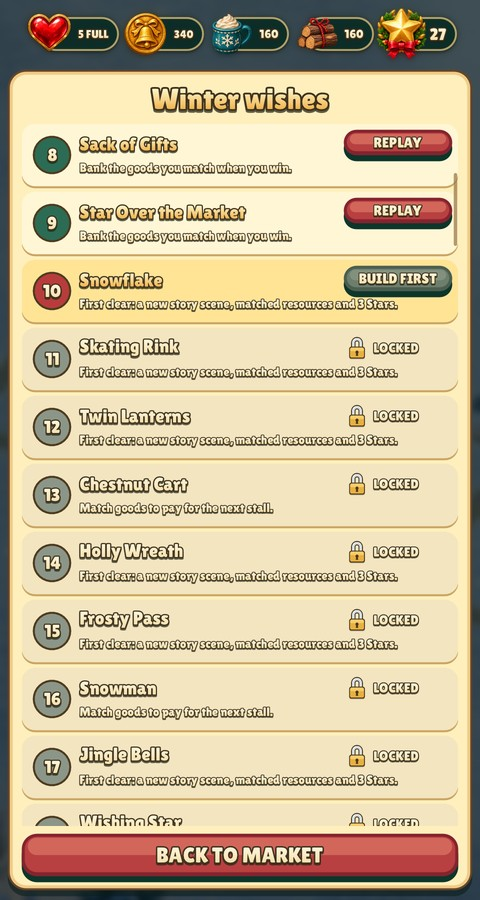
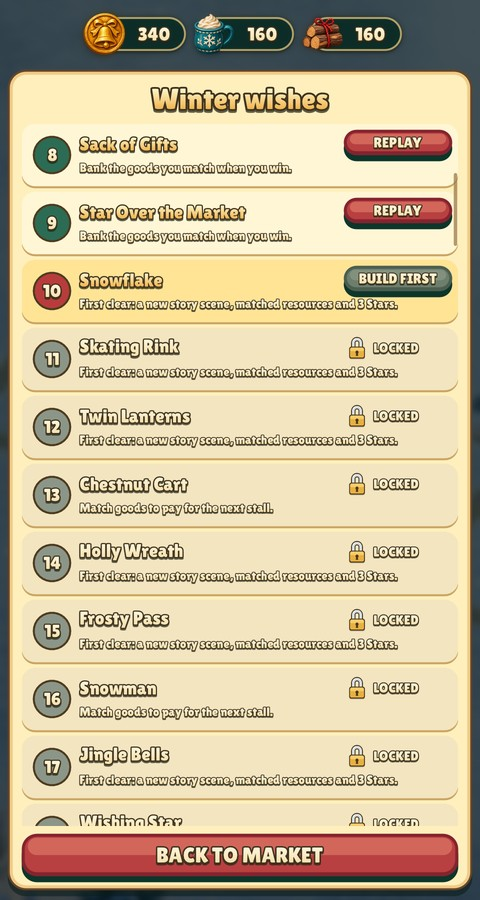
Christmas Market: the wallet row shows only its three resources
Lives and Christmas Stars leave the header, as in Relic Rush, and the
three capsules take the freed width.

Changed region(s): [[0.0625, 0.0, 0.9688, 0.0622]]

diff --git a/games/christmas-market/docs/asset-catalogue.md b/games/christmas-market/docs/asset-catalogue.md
@@ -79,7 +79,7 @@ Status: the buildings are Blender renders with projected registration (see the [
 | Tools | `art/icons.png`, cells 19–33 | `art/registered/board-states/` | Hammer, firecracker and star wand: normal, selected, pressed, hover and disabled, authored together in one atlas |
 | Pause and completion | `art/icons.png`, cells 34–39 | `art/registered/expedition-hud/` | Five authored pause states and a completion medal; medal also represents cumulative Christmas Stars |
 | Board tiles | Shared set generated by `tools/board_tiles.py` from `engine/art/board-tiles/tiles.json` | `art/registered/board-tiles/*.png` | The eight Cradle of Rome slots; parchment cells and deep blue tablets are in use. See [Board tiles](#lantern-panes) |
-| Lives | Relic Rush's [authored heart](../../relic-rush/art/expedition-hud/manifest.json), copied unchanged | `art/registered/expedition-hud/life.png` | One static life counter icon. The capsule uses the existing skin press state |
+| Lives | Relic Rush's [authored heart](../../relic-rush/art/expedition-hud/manifest.json), copied unchanged | `art/registered/expedition-hud/life.png` | One static life counter icon. The wallet row no longer shows it: it lists only Gold, Food and Supplies, as Relic Rush's does |
 | Buildable market terrain | `art/terrain.png` | `data/city/island.jpg` | Empty snowy market ground used for building placement |
 | Market streets | `tools/roads.py christmas-market` (Scener model; palette in `art/roads.json`) | `data/city/roads.png` | Fifteen paved road pieces, one per combination of joined neighbours, with rounded turns and junction corners, plus eight looks of each straight direction so a long street does not repeat (8 × 4 atlas): grey-brown setts, stone kerbs and a snow shoulder. The engine lays them from every building's front and joins them ([Roads](../../../docs/BUILDINGS.md#roads)); no interaction states. Captures: `screenshots/market.jpg`, `screenshots/phone-market.jpg` |
 | Market streets, second look | `tools/roads.py christmas-market --style sandstone` (palette in `art/roads-sandstone.json`, copied from Relic Rush's first sandstone streets) | `data/city/roads-sandstone.png` | The same pieces as warm sandstone setts with pale kerbs and no snow shoulder. An option under review, not the default: start the game with `--roads sandstone` to see it. Capture: `screenshots/market-sandstone.jpg` |
